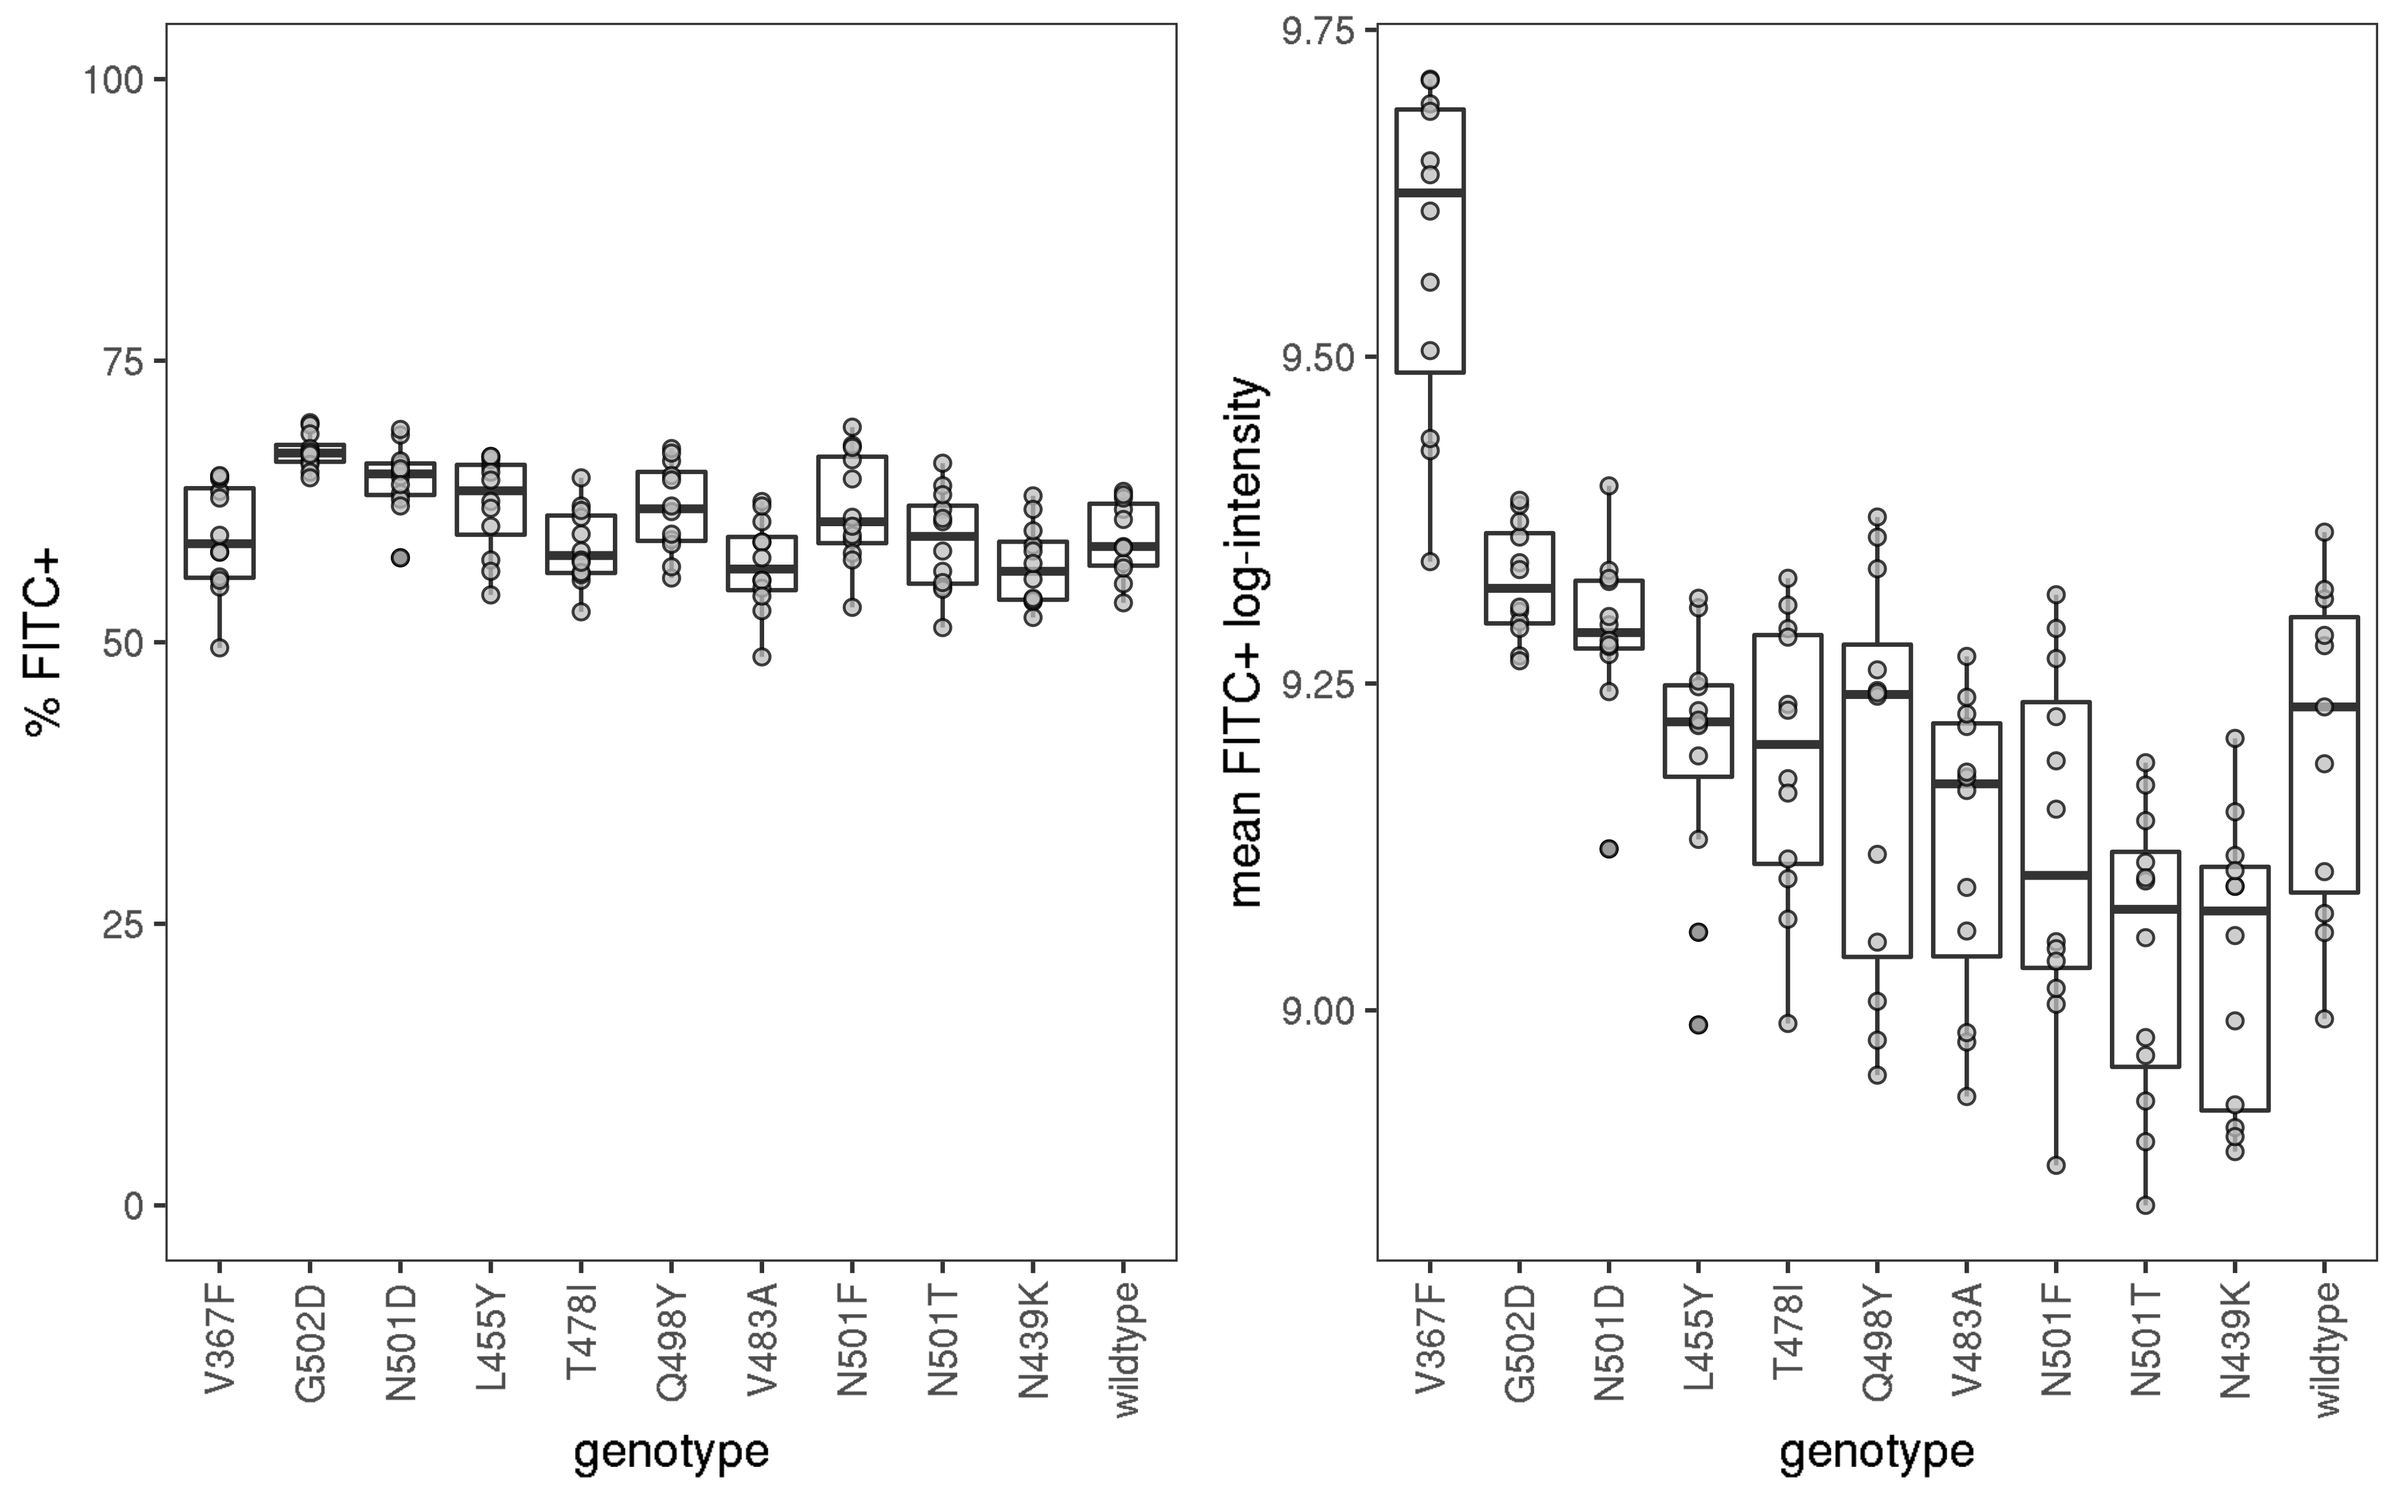
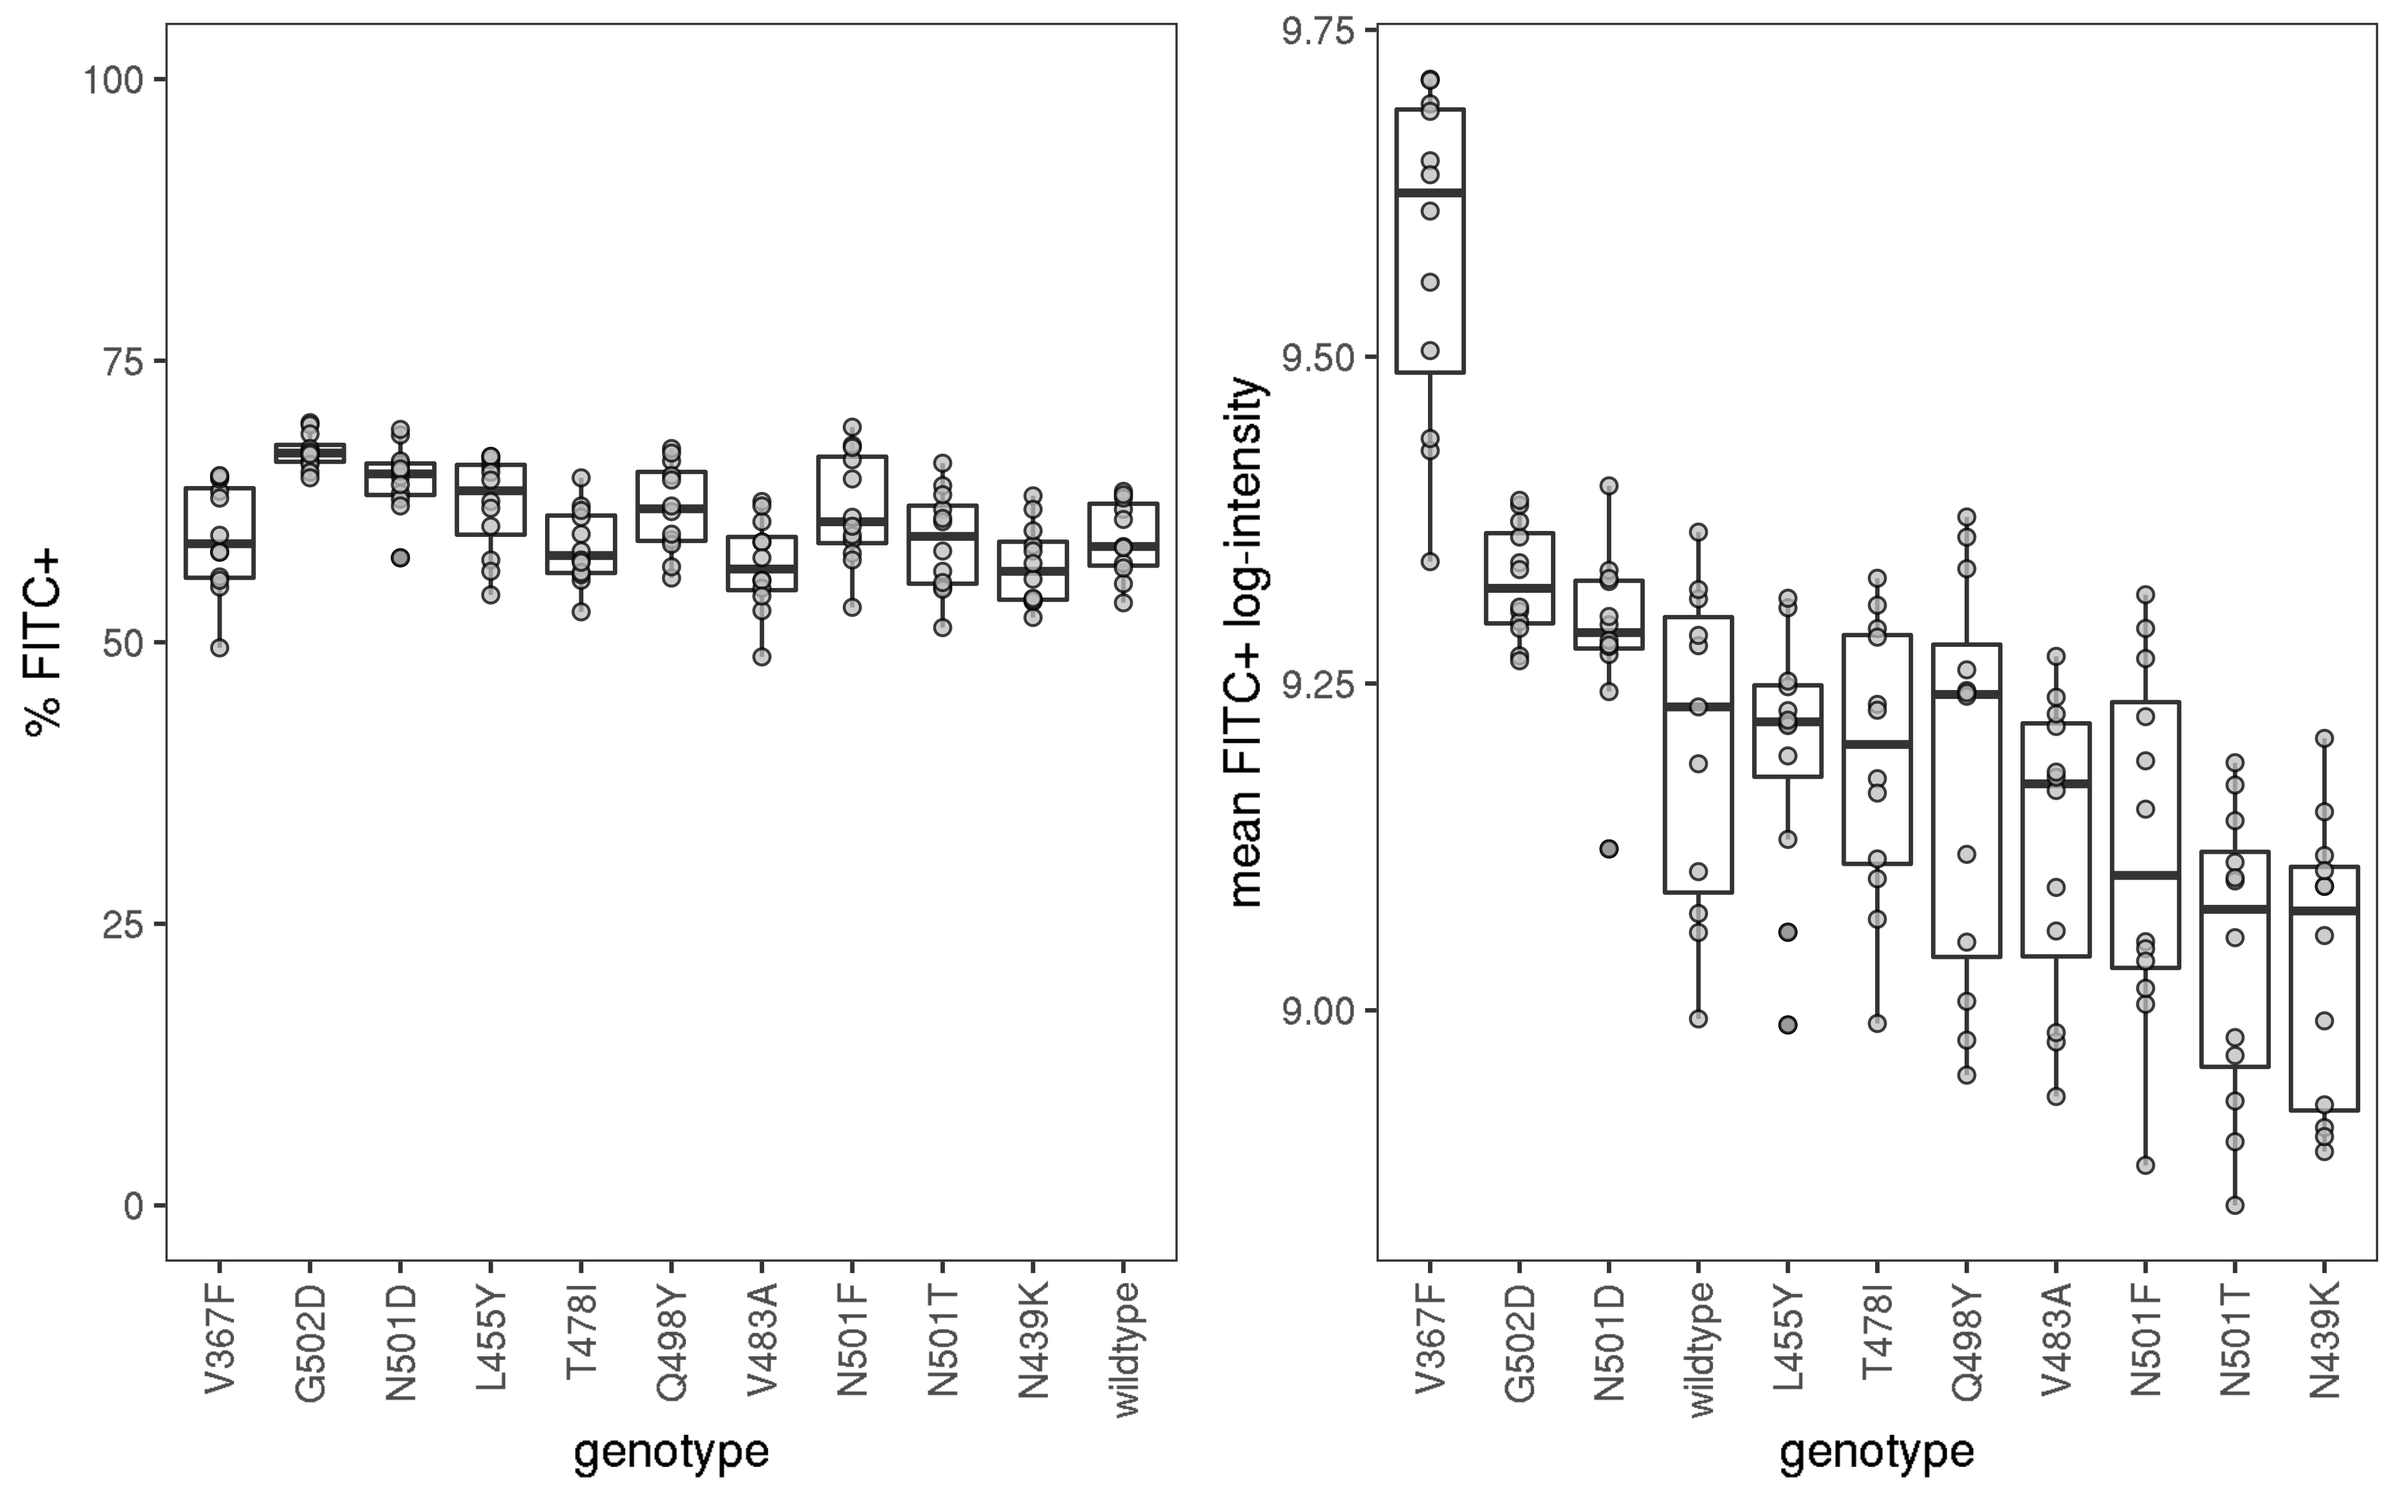
Rm NA for wildtype expression measure

diff --git a/data/isogenic_titrations/point-mut-validations.md b/data/isogenic_titrations/point-mut-validations.md
@@ -52,8 +52,8 @@ dt <- dt %>%
   mutate(mean_FITCpos = mean(FITCpos),
          stderr_FITCpos = sd(FITCpos)/sqrt(length(FITCpos)),
          log_geomean_FITC = log(geomean_FITC),
-         mean_logMFI_FITC = mean(log(geomean_FITC)),
-         stderr_logMFI_FITC = sd(log(geomean_FITC))/sqrt(length(geomean_FITC))
+         mean_logMFI_FITC = mean(log(geomean_FITC),na.rm=T),
+         stderr_logMFI_FITC = sd(log(geomean_FITC),na.rm=T)/sqrt(length(geomean_FITC))
          ) %>%
   ungroup()
 
@@ -115,11 +115,11 @@ head(dt, n=5)
     ## 4 wildtype -11.66667 2.15443e-12 wildtype           NA             NA
     ## 5 wildtype -11.00000 1.00000e-11 wildtype           NA             NA
     ##   log_geomean_FITC mean_logMFI_FITC stderr_logMFI_FITC           Kd
-    ## 1         9.365804               NA                 NA 4.655741e-11
-    ## 2         9.314700               NA                 NA 4.655741e-11
-    ## 3         9.321882               NA                 NA 4.655741e-11
-    ## 4         9.278933               NA                 NA 4.655741e-11
-    ## 5               NA               NA                 NA 4.655741e-11
+    ## 1         9.365804         9.201997         0.03622582 4.655741e-11
+    ## 2         9.314700         9.201997         0.03622582 4.655741e-11
+    ## 3         9.321882         9.201997         0.03622582 4.655741e-11
+    ## 4         9.278933         9.201997         0.03622582 4.655741e-11
+    ## 5               NA         9.201997         0.03622582 4.655741e-11
     ##          Kd_SE
     ## 1 2.636883e-12
     ## 2 2.636883e-12
@@ -150,7 +150,7 @@ point_mutants_summary
     ## 109        10    V367F 3.267925e-11 1.391010e-12     59.28333
     ## 121        11    V483A 4.821330e-11 2.806203e-12     56.83333
     ##     stderr_FITCpos mean_logMFI_FITC stderr_logMFI_FITC
-    ## 1               NA               NA                 NA
+    ## 1               NA         9.201997         0.03622582
     ## 13       1.1460737         9.180942         0.04429979
     ## 25       0.8708234         9.289367         0.01911649
     ## 37       1.4275672         9.124061         0.03945146
